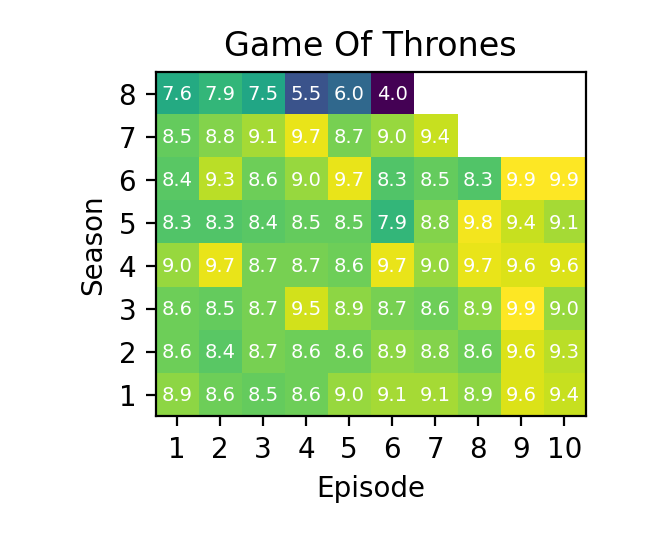
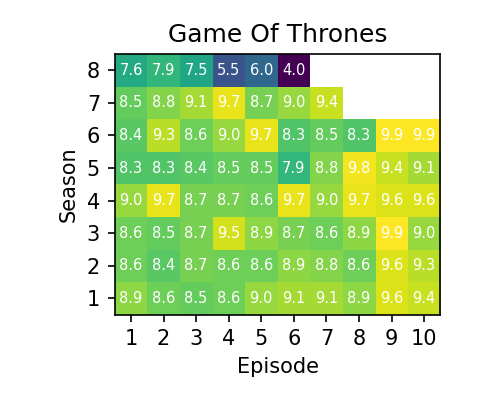
fixed filename for heatmap images

Changed region(s): [[0.12, 0.06, 0.9, 0.87], [0.48, 0.87, 0.63, 0.96]]

diff --git a/examples/plot_heatmap.py b/examples/plot_heatmap.py
@@ -21,7 +21,7 @@ def main():
     parser = argparse.ArgumentParser()
     parser.add_argument('-s', '--show', action='store_true', help='show the heatmap plot instead of saving it')
     parser.add_argument('-d', '--dark', action='store_true', help='use dark mode for the plot style')
-    parser.add_argument('-o', '--override', action='store_true', help='override existing plots, only used if show flag is not set')
+    parser.add_argument('-o', '--override', action='store_true', help='override existing plots')
     parser.add_argument('-n', '--name', type=str, default=None,
                         help='name of the series, if not set the whole data directory will be scanned')
     args = parser.parse_args()
@@ -45,32 +45,31 @@ def main():
         # load all series in data folder
         series = all_series
 
-    # check override
-    if len(series) > 0 and save and not override:
-        tot_before = len(series)
-        series = [s for s in series if not os.path.isfile(f'{img_path}/{to_fn(s)}.png')]
-        tot_after = len(series)
-        if tot_after < tot_before:
-            print(f'Ignoring {tot_before - tot_after}/{tot_before} series because these heatmap images already exist '
-                  f'and override flag is not set.')
-
     # create heatmap plots
     if len(series) == 0:
         print('No series to plot...')
     else:
         for s in tqdm(series):
-            fn = f'{data_path}/{to_fn(s)}.csv'
-            if not os.path.isfile(fn):
+            fn_s = to_fn(s)
+            fn_data = f'{data_path}/{fn_s}.csv'
+            if not os.path.isfile(fn_data):
                 # try to find closest match
                 matches = [m for m in all_series if fn_match(s, m)]
                 if len(matches) == 0:
-                    print(f'No match found in data for {fn}.')
+                    print(f'No match found in data for {s}.')
                     continue
-                fn = f'{data_path}/{to_fn(matches[0])}.csv'
-            df = pd.read_csv(fn)
+                fn_data = f'{data_path}/{to_fn(matches[0])}.csv'
+                fn_s = matches[0]
+            df = pd.read_csv(fn_data)
             episodes = df_to_episodes(df)
-            heatmap_plot(series_name=s, episodes=episodes, show=show, save_fn=f'{img_path}/{to_fn(s)}.png',
-                         dark_mode=dark_mode)
+
+            # don't override file if already exists and flag is not set
+            save_fn = f'{img_path}/{fn_s}.png'
+            if os.path.isfile(save_fn) and not override:
+                save_fn = None
+
+            heatmap_plot(series_name=s, episodes=episodes, show=show, save_fn=save_fn,
+                         dark_mode=dark_mode, dpi=150)
 
 if __name__ == '__main__':
     main()

diff --git a/imdb_heatmap/scraper.py b/imdb_heatmap/scraper.py
@@ -11,8 +11,8 @@ from selenium.webdriver.common.by import By
 from .models import Episode, ImdbEntry
 
 class ImdbScraper:
-    timeout = 2
-    max_retries = 6
+    timeout = 10
+    max_retries = 20
     max_episodes = 100
     base_url = 'https://www.imdb.com'
     driver = None
@@ -50,13 +50,14 @@ class ImdbScraper:
 
     def _restart_driver(self) -> None:
         self.page_loaded = False
+        self.driver.delete_all_cookies()
         self.driver.close()
         self.driver = webdriver.Chrome(options=self.chrome_options)
 
     def _load_url(self, imdb_url: str) -> None:
         self.variant = None
         print(f'Fetching from {imdb_url}')
-        self.driver.implicitly_wait(1)
+        #self.driver.implicitly_wait(1)
         self.driver.get(f'{self.base_url}/{imdb_url}')
 
     def _load_element(self, xpaths):

diff --git a/imdb_heatmap/heatmap.py b/imdb_heatmap/heatmap.py
@@ -34,7 +34,7 @@ def create_heatmap(episodes: list[Episode]) -> np.ndarray:
     return heatmap
 
 def heatmap_plot(series_name: str, episodes: List[Episode], show: bool, save_fn: str or None,
-                 dark_mode: bool, dark_col=(0.16, 0.16, 0.16, 1.0)) -> None:
+                 dark_mode: bool, dpi=100, dark_col=(0.16, 0.16, 0.16, 1.0)) -> None:
     # create the heatmap array
     heatmap = create_heatmap(episodes)
 
@@ -48,7 +48,7 @@ def heatmap_plot(series_name: str, episodes: List[Episode], show: bool, save_fn:
     minsize = 2.3
     if minax < minsize:
         figsize = figsize / minax * minsize
-    plt.figure(figsize=figsize, dpi=200)
+    plt.figure(figsize=figsize, dpi=dpi)
 
     # dark mode
     if dark_mode:
